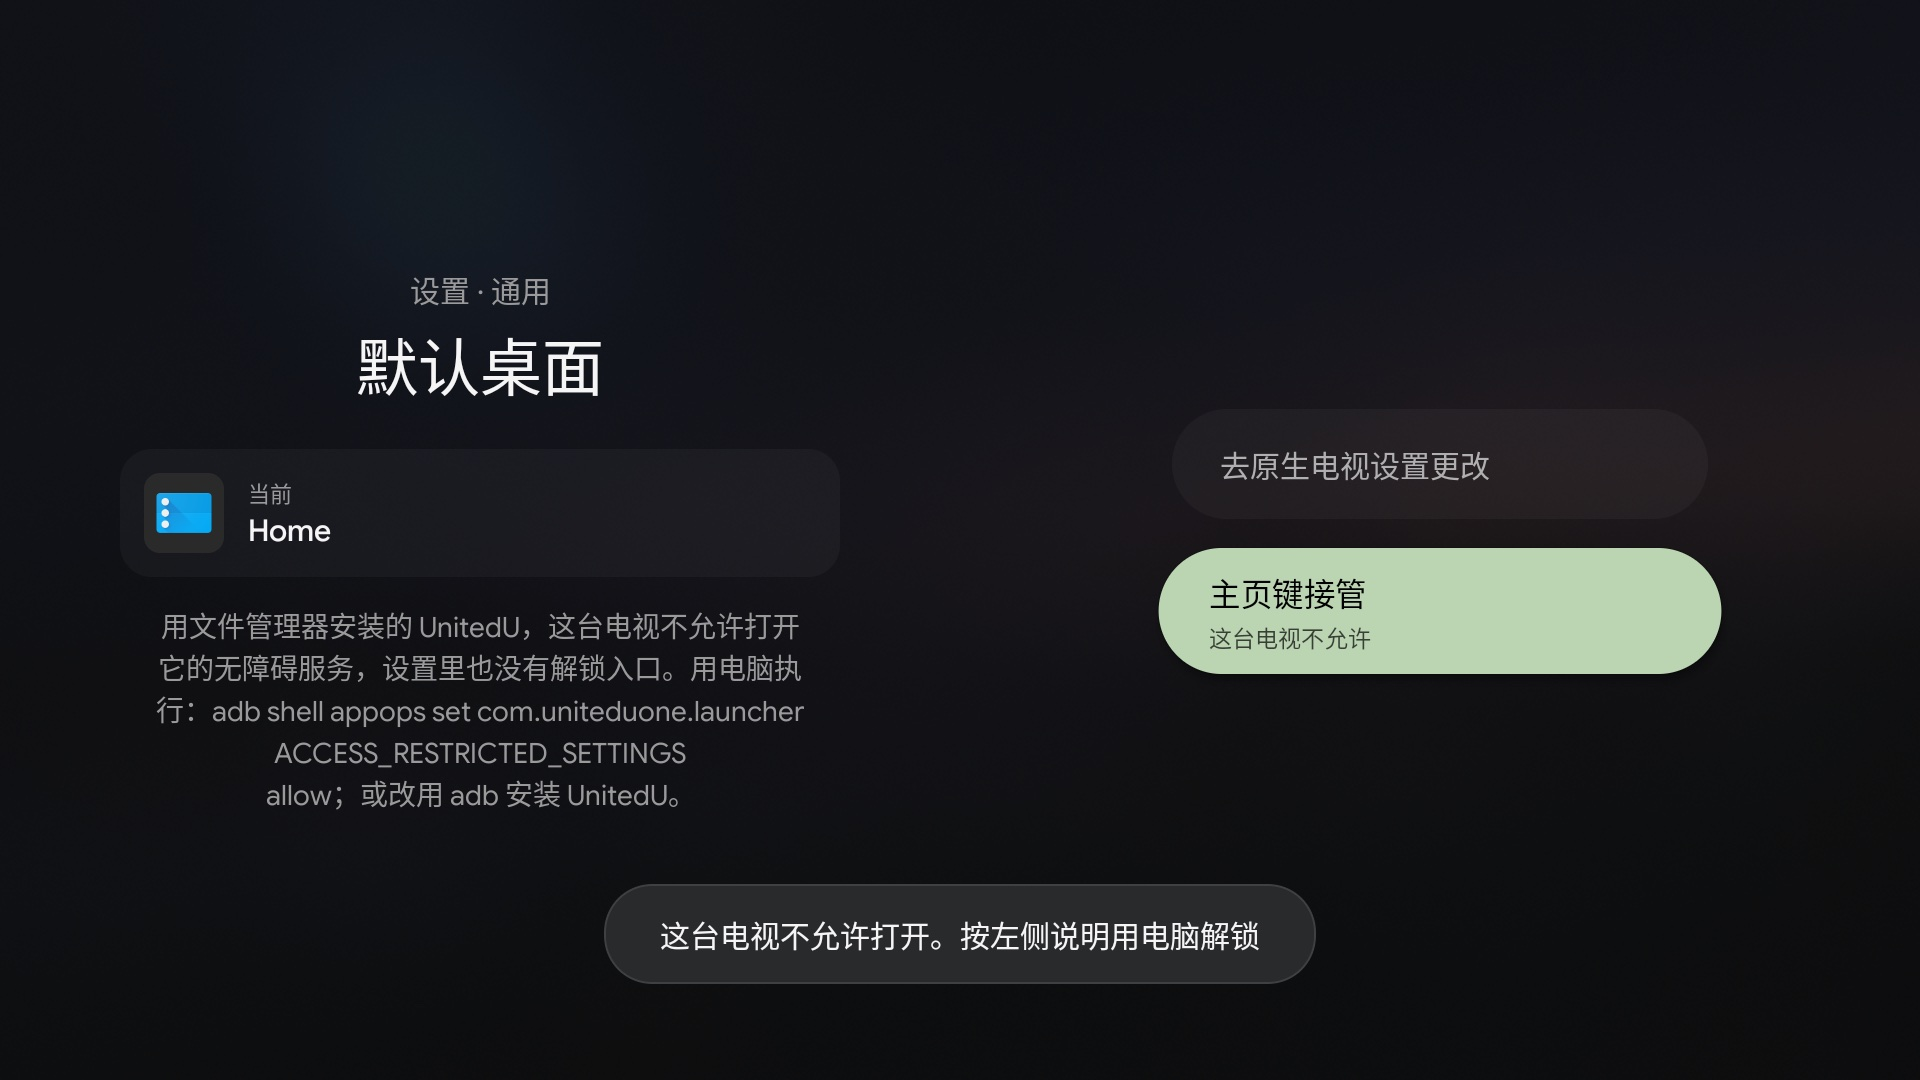
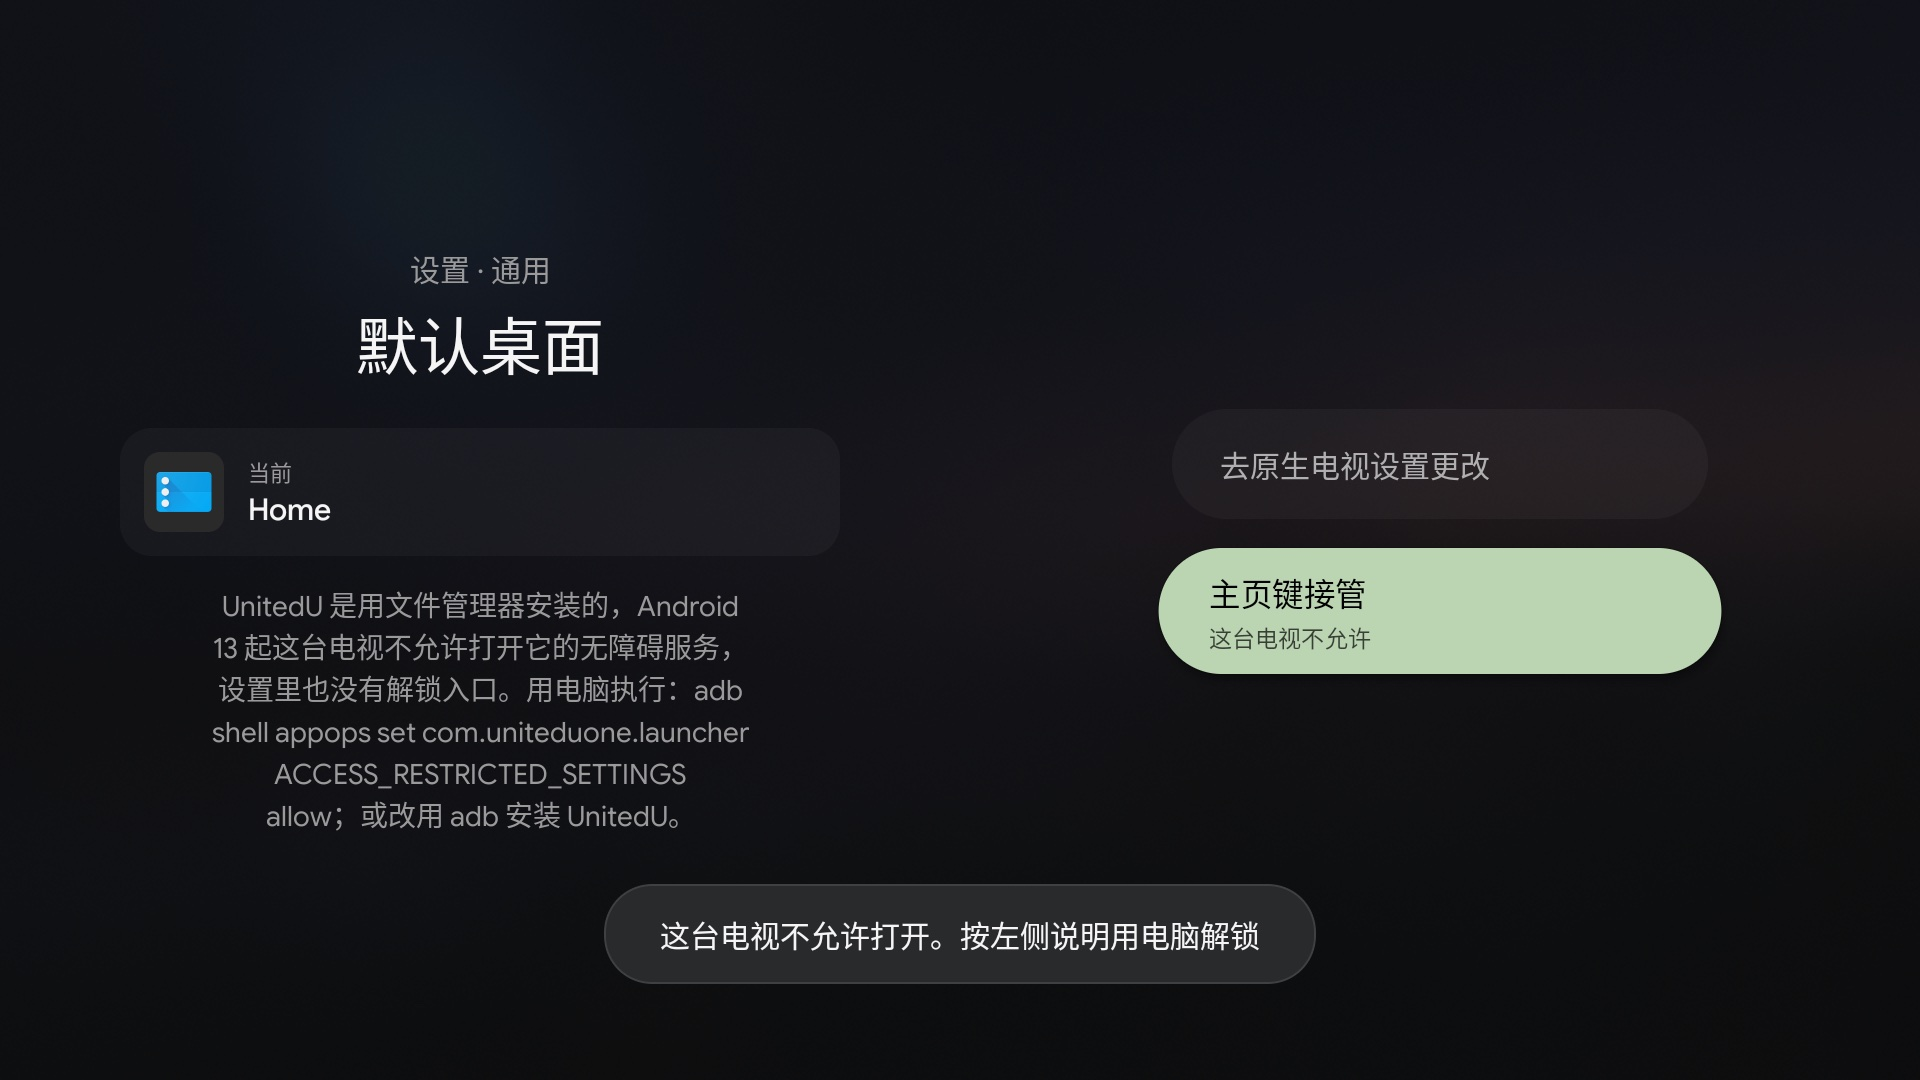
fix: 「这台电视不允许」按安装来源推断(appop 应用读不到)
isRestricted 原来读自己的 ACCESS_RESTRICTED_SETTINGS appop,但这个 op 要 MANAGE_APPOPS,第三方应用
读一律抛 SecurityException(API 34 模拟器实测,四种读法都一样),被 runCatching 吞成 false,
RESTRICTED 状态因此永远不出现。改为按 getInstallSourceInfo().packageSource 推断:用系统安装器装的
本地 / 下载文件(LOCAL_FILE / DOWNLOADED_FILE)= 受限,adb / 商店 / 会话安装 = 不受限,Android 13
以下没有这道锁。RESTRICTED 的说明改成直说「是用文件管理器安装的,Android 13 起…」(三语言)。
真实验证:用模拟文件管理器的 ACTION_VIEW 安装 → packageSource=3 + appop deny → 设置页与引导第 3 步
都出现「这台电视不允许」+ adb 说明,按下只 toast;截图换成真实状态那张。

Changed region(s): [[0.0625, 0.55, 0.4062, 0.7639], [0.1875, 0.2444, 0.3125, 0.3667], [0.0625, 0.4278, 0.1875, 0.5194]]

diff --git a/app/src/main/java/com/uniteduone/launcher/HomeKeyState.kt b/app/src/main/java/com/uniteduone/launcher/HomeKeyState.kt
@@ -1,9 +1,9 @@
 package com.uniteduone.launcher
 
 import android.accessibilityservice.AccessibilityServiceInfo
-import android.app.AppOpsManager
 import android.content.Context
-import android.os.Process
+import android.content.pm.PackageInstaller
+import android.os.Build
 import android.provider.Settings
 import android.util.Log
 import android.view.accessibility.AccessibilityManager
@@ -14,7 +14,8 @@ enum class HomeKeyStatus { ON, OFF, NOT_RUNNING, RESTRICTED }
 
 /**
  * [enabled] 系统无障碍开关开着;[running] 服务这次开机以来连上过且没断(心跳),**而且**系统此刻真的绑定着它;[restricted] 受限设置锁着
- * (Android 13+ 用系统安装器侧载的包,见调研 §2.2 #9–#10)。系统开关显示开着却没在跑是 Projectivy 最常见的用户问题,所以分开报。
+ * (Android 13+ 用系统安装器侧载的包,见调研 §2.2 #9–#10;应用读不到锁本身,按安装来源推断,见 [HomeKeyState.isRestricted])。
+ * 系统开关显示开着却没在跑是 Projectivy 最常见的用户问题,所以分开报。
  */
 fun homeKeyStatus(enabled: Boolean, running: Boolean, restricted: Boolean): HomeKeyStatus = when {
     enabled && running -> HomeKeyStatus.ON
@@ -56,9 +57,6 @@ fun enabledServiceSetting(raw: String?, pkg: String): Boolean {
  * 只有服务一个写者,原子写;读失败一律当「没有心跳」。
  */
 object HomeKeyState {
-    /** 受限设置的 appop(`AppOpsManager.OPSTR_ACCESS_RESTRICTED_SETTINGS`,API 33;老系统没有这个 op,查询抛异常 → 当不受限)。 */
-    private const val OP_ACCESS_RESTRICTED_SETTINGS = "android:access_restricted_settings"
-
     private fun file(ctx: Context) = File(ctx.filesDir, "homekey.state")
 
     /** 读不到时两边都是 -1,等于不按开机计数把关——宁可少报一次「没在运行」。 */
@@ -92,11 +90,16 @@ object HomeKeyState {
             .any { it.resolveInfo.serviceInfo.packageName == ctx.packageName }
     }.getOrDefault(false)
 
-    /** 受限设置锁着(自己的 appop 不是 allow)。 */
+    /**
+     * 受限设置(Android 13+)锁不锁:系统在**安装时**按来源决定——用系统安装器装的本地 / 下载文件(`PACKAGE_SOURCE_LOCAL_FILE` /
+     * `DOWNLOADED_FILE`)才上锁,adb / 商店 / 会话安装不锁。锁本身(appop `ACCESS_RESTRICTED_SETTINGS`)应用读不到(要 MANAGE_APPOPS,
+     * 2026-10-02 模拟器实测抛 SecurityException),所以按来源推断;用户已用 adb 解锁但还没打开服务时会误报一次「不允许」,去系统设置照样能开。
+     * Android 13 以下没有这道锁 → false。
+     */
     fun isRestricted(ctx: Context): Boolean = runCatching {
-        val ops = ctx.getSystemService(AppOpsManager::class.java) ?: return false
-        @Suppress("DEPRECATION")
-        ops.checkOpNoThrow(OP_ACCESS_RESTRICTED_SETTINGS, Process.myUid(), ctx.packageName) != AppOpsManager.MODE_ALLOWED
+        if (Build.VERSION.SDK_INT < Build.VERSION_CODES.TIRAMISU) return false
+        val source = ctx.packageManager.getInstallSourceInfo(ctx.packageName).packageSource
+        source == PackageInstaller.PACKAGE_SOURCE_LOCAL_FILE || source == PackageInstaller.PACKAGE_SOURCE_DOWNLOADED_FILE
     }.getOrDefault(false)
 
     fun status(ctx: Context): HomeKeyStatus =
